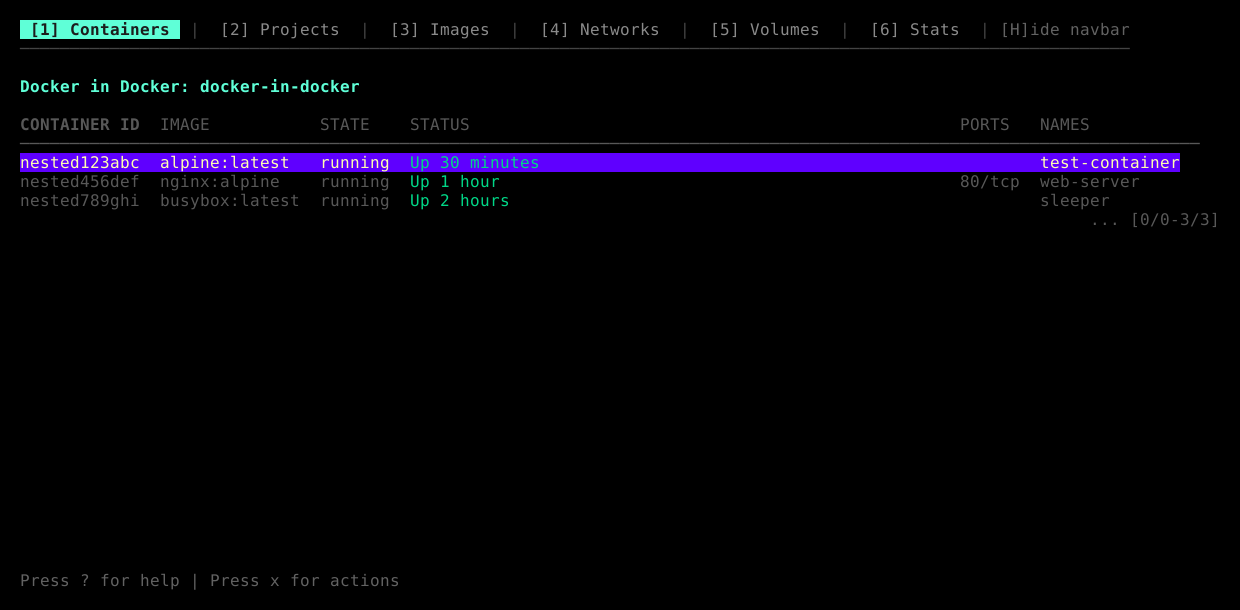
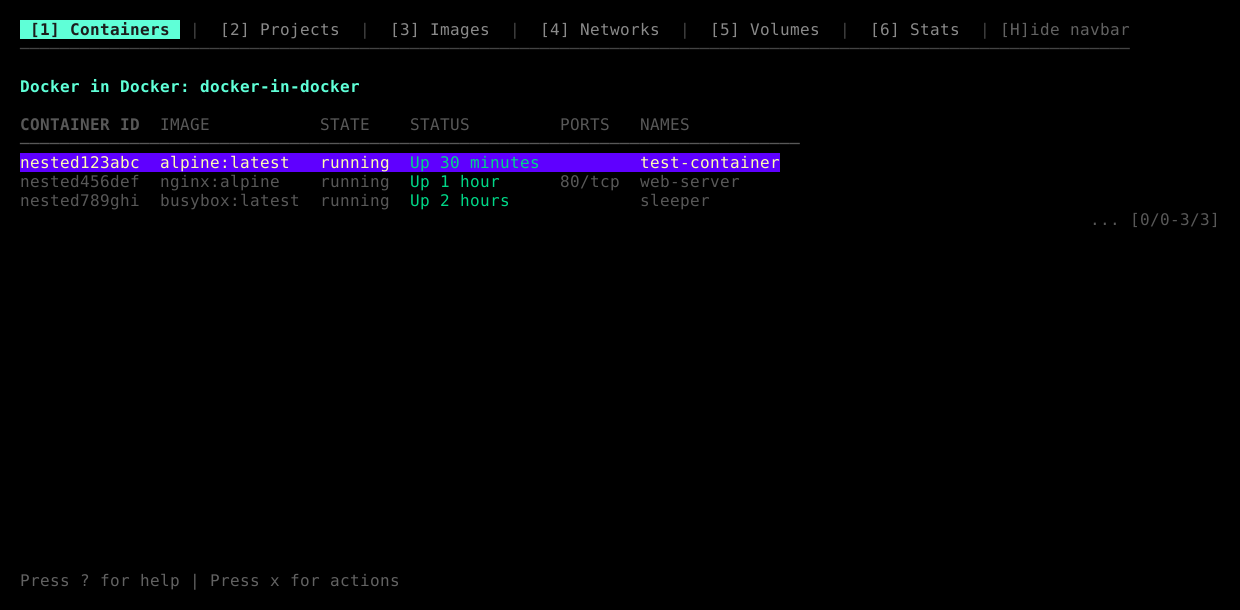
Fix CI for bubbletea v2 migration

diff --git a/cmd/generate-screenshots/main.go b/cmd/generate-screenshots/main.go
@@ -11,8 +11,6 @@ import (
 	"time"
 
 	tea "charm.land/bubbletea/v2"
-	"charm.land/lipgloss/v2"
-	"github.com/muesli/termenv"
 	ansitoimg "github.com/pavelpatrin/go-ansi-to-image"
 
 	"github.com/tokuhirom/dcv/internal/docker"
@@ -36,7 +34,6 @@ func main() {
 	// Force color output for lipgloss
 	os.Setenv("TERM", "xterm-256color")
 	os.Setenv("COLORTERM", "truecolor")
-	lipgloss.SetColorProfile(termenv.TrueColor)
 
 	// Create output directory
 	outputDir := "docs/screenshots"
@@ -145,10 +142,6 @@ func main() {
 }
 
 func generateScreenshot(ss screenshot, outputDir string) error {
-	// Ensure colors are enabled for this function too
-	lipgloss.SetHasDarkBackground(false)
-	lipgloss.SetColorProfile(termenv.TrueColor)
-
 	// Create model with the appropriate view
 	model := ui.NewModel(ss.viewType)
 
@@ -185,7 +178,7 @@ func generateScreenshot(ss screenshot, outputDir string) error {
 	}
 
 	// Parse ANSI text
-	if err := converter.Parse(view); err != nil {
+	if err := converter.Parse(view.Content); err != nil {
 		return fmt.Errorf("failed to parse ANSI text: %w", err)
 	}
 

diff --git a/internal/ui/key_input.go b/internal/ui/key_input.go
@@ -5,4 +5,3 @@ import tea "charm.land/bubbletea/v2"
 func isCtrlKey(msg tea.KeyPressMsg, key rune) bool {
 	return msg.Code == key && msg.Mod.Contains(tea.ModCtrl)
 }
-

diff --git a/internal/ui/key_test_helper_test.go b/internal/ui/key_test_helper_test.go
@@ -17,4 +17,3 @@ func newKeyPress(text string) tea.KeyPressMsg {
 func newSpecialKey(code rune) tea.KeyPressMsg {
 	return tea.KeyPressMsg{Code: code}
 }
-
